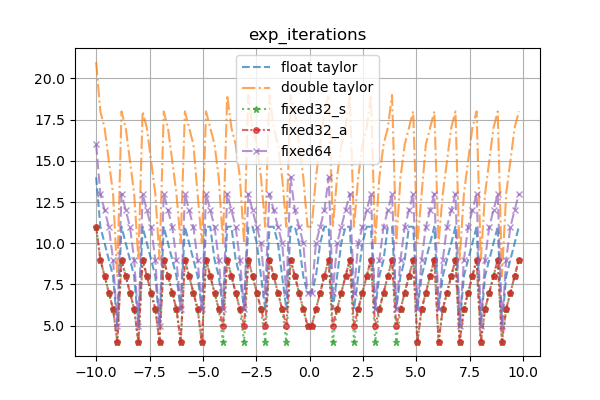
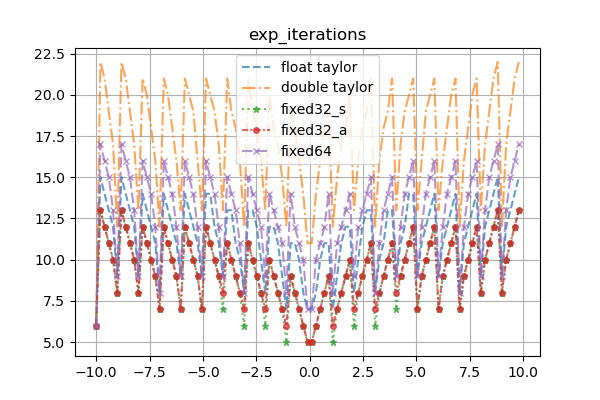
Added (taylor) function intialization to tests

diff --git a/ArduinoFixedPointTest/tests.h b/ArduinoFixedPointTest/tests.h
@@ -91,6 +91,13 @@ void all_tests_taylor(unsigned n) {
   unsigned long long int prod = measure_time([=](){return (float)prod_test<T>(n);});
   unsigned long long int quot = measure_time([=](){return (float)quot_test<T>(n);});
 
+  // initialization (if needed)
+  taylor::sin<T>(5);
+  taylor::sqrt<T>(5);
+  taylor::asin<T>(0.5f);
+  taylor::log<T>(0.5f);
+  taylor::exp<T>(10);
+
   unsigned long long int tsin = measure_time([=](){return (float)math_test<T>(-5, 5, T(10)/n, &taylor::sin<T>);});
   unsigned long long int tsqrt = measure_time([=](){return (float)math_test<T>(0, 5, T(10)/n, &taylor::sqrt<T>);});
   unsigned long long int tasin = measure_time([=](){return (float)math_test<T>(-0.999, 0.999, T(10)/n, &taylor::asin<T>);});
@@ -111,6 +118,13 @@ void all_tests_std(unsigned n) {
   unsigned long long int sub = measure_time([=](){return (float)sub_test<T>(n);});
   unsigned long long int prod = measure_time([=](){return (float)prod_test<T>(n);});
   unsigned long long int quot = measure_time([=](){return (float)quot_test<T>(n);});
+
+  // initialization (if needed)
+  sin((T)5);
+  sqrt((T)5);
+  asin((T)0.5f);
+  log((T)0.5f);
+  exp((T)10);
 
   unsigned long long int tsin = measure_time([=](){return (float)math_test<T>(-5, 5, T(10)/n, [](T x){return sin(x);});});
   unsigned long long int tsqrt = measure_time([=](){return (float)math_test<T>(0, 5, T(10)/n, [](T x){return sqrt(x);});});

diff --git a/src/lib/taylormath.h b/src/lib/taylormath.h
@@ -311,6 +311,7 @@ namespace taylor {
     T pown(T x, unsigned n) {
         T ans = 1;
         while (n > 0) {
+            TAYLOR_INCREMENT_LOOP_COUNTER;
             int last_bit = (n & 1);
             if (last_bit) {
                 ans = ans * x;
@@ -325,7 +326,7 @@ namespace taylor {
     template<typename T>
     T exp(T x) {
         if (x == 0) return 1;
-        if (x < 0) return 1 / exp(-x);
+        if (x < 0) return 1 / exp<T>(-x);
         if (x <= 1) return exp_small_pos<T>(x);
         unsigned long long int n = std::floor(x);
         T rest = x - n;

diff --git a/src/test_2.cpp b/src/test_2.cpp
@@ -16,7 +16,10 @@ template<typename T>
 void test_function(const std::string& filename, double start, double stop, unsigned n, const std::function<T(T)> fun) {
     std::ofstream file(filename);
     file << std::fixed << std::setw(32) << std::setprecision(32);
-    fun(0.1); // initialize of needed
+    // initialize of needed
+    fun(start); 
+    fun((stop+start)/2);
+    fun(stop);
     for (unsigned i=0;i<n;i++) {
         taylor::loop_counter = 0;
         double x = start + i * (stop - start) / n;
